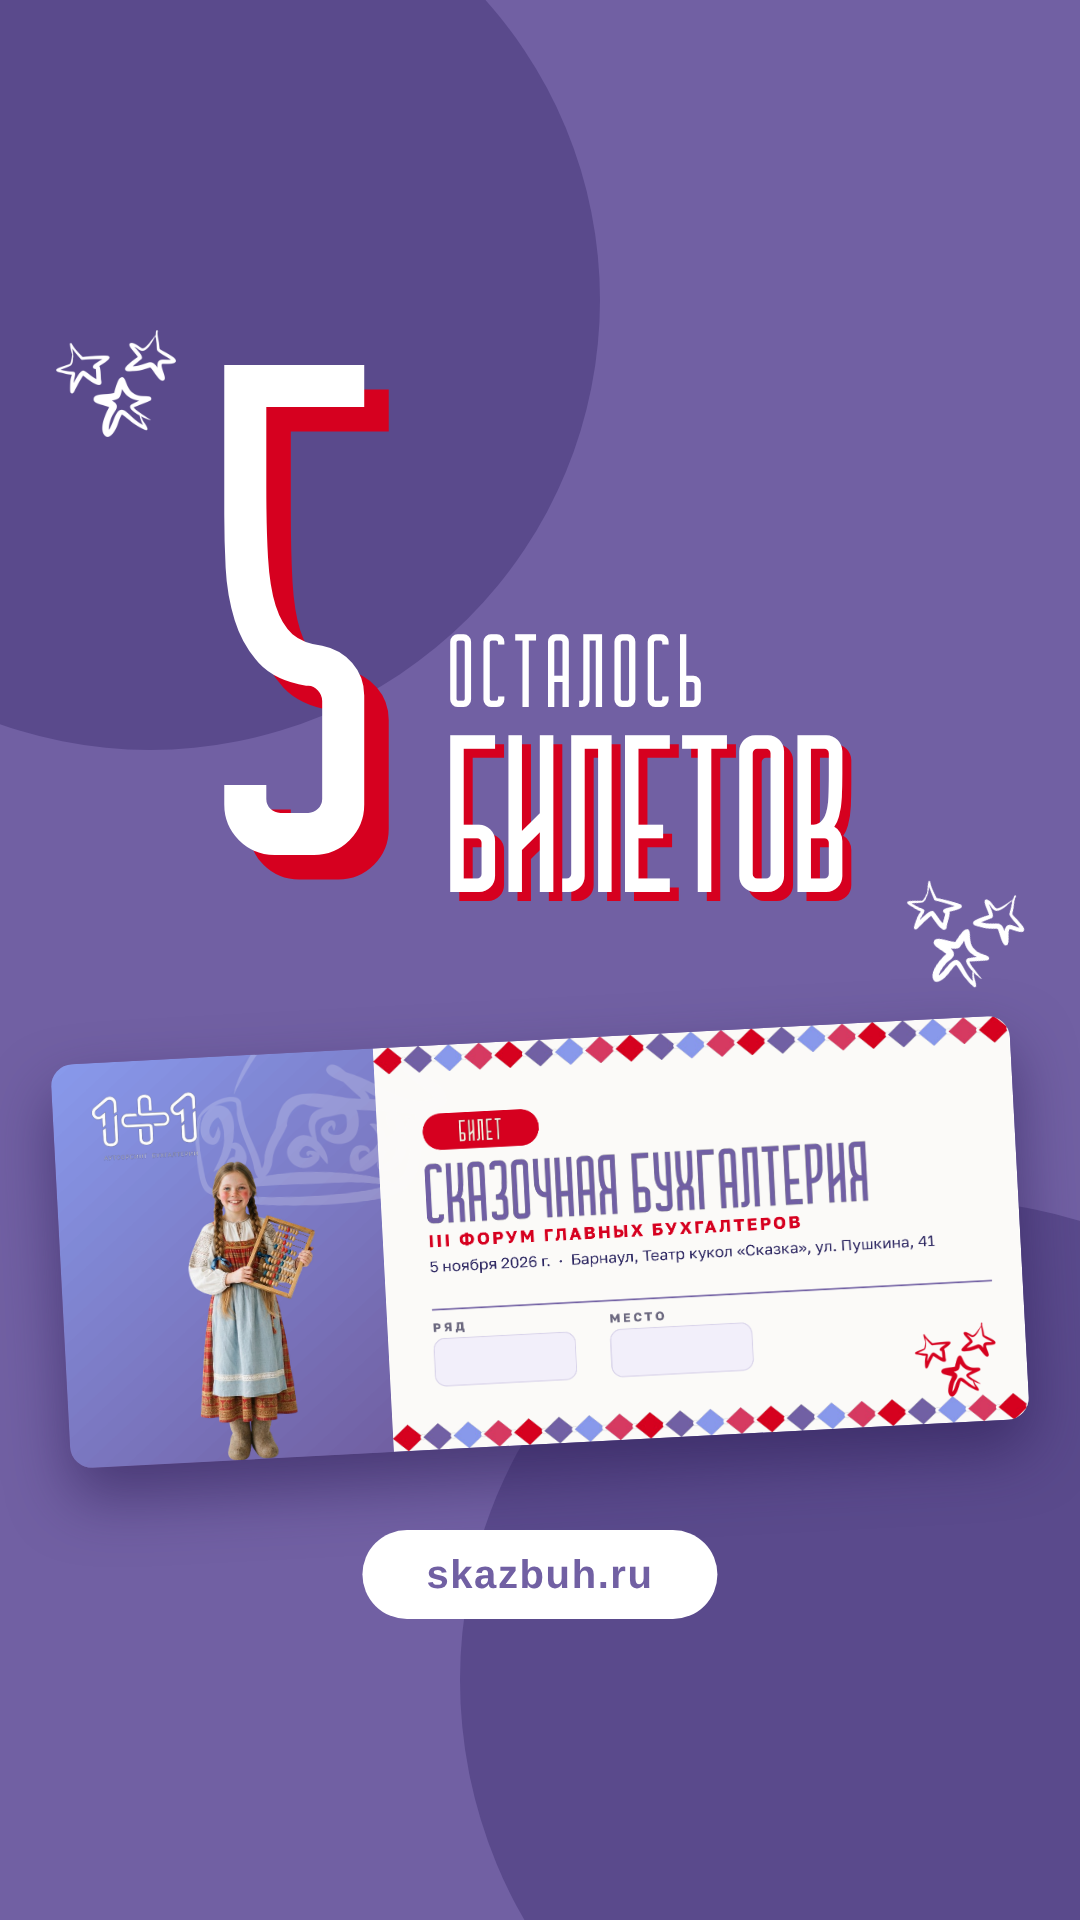
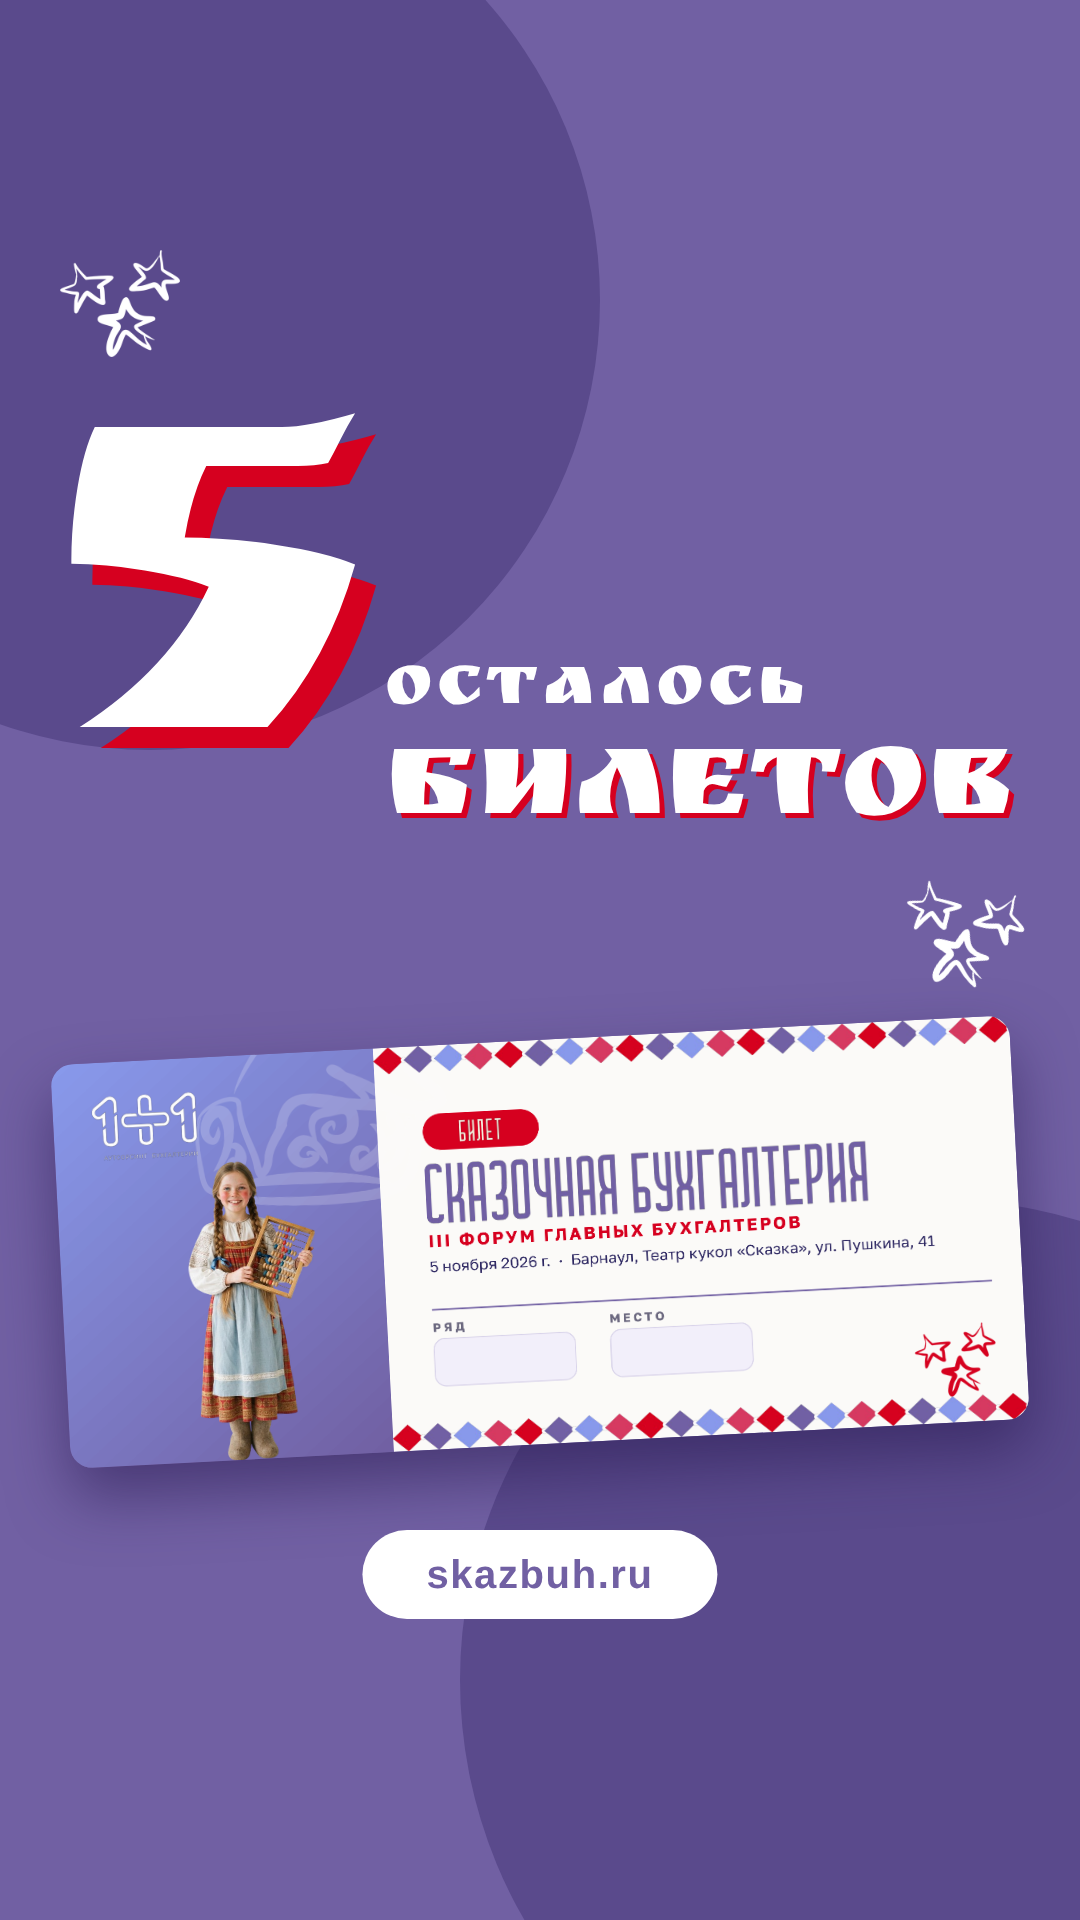
Social creatives: headline in Ruslan Display (Russian folk style) instead of Cramaten
Claude-Session: https://claude.ai/code/session_01DZEn5nyTAWE8zavBUm6caU

Changed region(s): [[0.0611, 0.125, 0.9472, 0.4688]]

diff --git a/conference-skazbuh/social/story.html b/conference-skazbuh/social/story.html
@@ -1,16 +1,17 @@
 <!DOCTYPE html><html lang="ru"><head><meta charset="utf-8"><link rel="stylesheet" href="post.css">
 <style>
+@font-face{font-family:'Ruslan';src:url('RuslanDisplay-Regular.ttf');}
 html,body{width:1080px;height:1920px}
 .bgc.a{left:-300px;top:-150px;width:900px;height:900px}
 .bgc.b{right:-340px;bottom:-240px;width:960px;height:960px}
-.row{position:absolute;left:0;right:0;top:400px;display:flex;justify-content:center;align-items:flex-end;gap:44px;white-space:nowrap}
-.row .n{font-family:'Cramaten',sans-serif;font-size:700px;line-height:.8;color:#fff;text-shadow:.035em .035em 0 var(--red)}
+.row{position:absolute;left:0;right:0;top:400px;display:flex;justify-content:center;align-items:flex-end;gap:28px;white-space:nowrap}
+.row .n{font-family:'Ruslan',serif;font-size:600px;line-height:.8;color:#fff;text-shadow:.035em .035em 0 var(--red)}
 .row .c{display:flex;flex-direction:column;align-items:flex-start;gap:18px;padding-bottom:34px}
-.row .o{font-family:'Cramaten',sans-serif;font-size:104px;line-height:.9;color:#fff;text-transform:uppercase;letter-spacing:.06em}
-.row .w{font-family:'Cramaten',sans-serif;font-size:224px;line-height:.8;color:#fff;text-transform:uppercase;text-shadow:.04em .04em 0 var(--red)}
+.row .o{font-family:'Ruslan',serif;font-size:72px;line-height:.9;color:#fff;text-transform:uppercase;letter-spacing:.06em}
+.row .w{font-family:'Ruslan',serif;font-size:128px;line-height:.8;color:#fff;text-transform:uppercase;text-shadow:.04em .04em 0 var(--red)}
 .ticket{position:absolute;left:50%;margin-left:-480px;top:1040px;width:960px;border-radius:22px;box-shadow:0 30px 60px rgba(40,25,80,.55);transform:rotate(-3deg)}
 .btn{left:50%;transform:translateX(-50%);top:1530px;font-size:40px;padding:22px 64px}
-.star{width:120px}.s1{left:56px;top:330px}.s2{right:60px;top:880px;transform:rotate(18deg)}
+.star{width:120px}.s1{left:60px;top:250px}.s2{right:60px;top:880px;transform:rotate(18deg)}
 </style></head><body>
 <div class="bgc a"></div><div class="bgc b"></div>
 <img class="star s1" src="zvezdy-w.png" alt=""><img class="star s2" src="zvezdy-w.png" alt="">

diff --git a/conference-skazbuh/social/square.html b/conference-skazbuh/social/square.html
@@ -1,13 +1,14 @@
 <!DOCTYPE html><html lang="ru"><head><meta charset="utf-8"><link rel="stylesheet" href="post.css">
 <style>
+@font-face{font-family:'Ruslan';src:url('RuslanDisplay-Regular.ttf');}
 html,body{width:1080px;height:1080px}
 .bgc.a{left:-260px;top:-300px;width:800px;height:800px}
 .bgc.b{right:-300px;bottom:-320px;width:800px;height:800px}
-.row{position:absolute;left:0;right:0;top:140px;display:flex;justify-content:center;align-items:flex-end;gap:36px;white-space:nowrap}
-.row .n{font-family:'Cramaten',sans-serif;font-size:440px;line-height:.8;color:#fff;text-shadow:.035em .035em 0 var(--red)}
+.row{position:absolute;left:0;right:0;top:140px;display:flex;justify-content:center;align-items:flex-end;gap:30px;white-space:nowrap}
+.row .n{font-family:'Ruslan',serif;font-size:430px;line-height:.8;color:#fff;text-shadow:.035em .035em 0 var(--red)}
 .row .c{display:flex;flex-direction:column;align-items:flex-start;gap:14px;padding-bottom:20px}
-.row .o{font-family:'Cramaten',sans-serif;font-size:78px;line-height:.9;color:#fff;text-transform:uppercase;letter-spacing:.06em}
-.row .w{font-family:'Cramaten',sans-serif;font-size:150px;line-height:.8;color:#fff;text-transform:uppercase;text-shadow:.04em .04em 0 var(--red)}
+.row .o{font-family:'Ruslan',serif;font-size:66px;line-height:.9;color:#fff;text-transform:uppercase;letter-spacing:.06em}
+.row .w{font-family:'Ruslan',serif;font-size:136px;line-height:.8;color:#fff;text-transform:uppercase;text-shadow:.04em .04em 0 var(--red)}
 .ticket{position:absolute;left:50%;margin-left:-440px;top:560px;width:880px;border-radius:22px;box-shadow:0 30px 60px rgba(40,25,80,.55);transform:rotate(-3deg)}
 .btn{left:50%;transform:translateX(-50%);bottom:56px;font-size:38px;padding:20px 60px}
 .star{width:100px}.s1{left:56px;top:470px}.s2{right:60px;top:90px;transform:rotate(18deg)}
